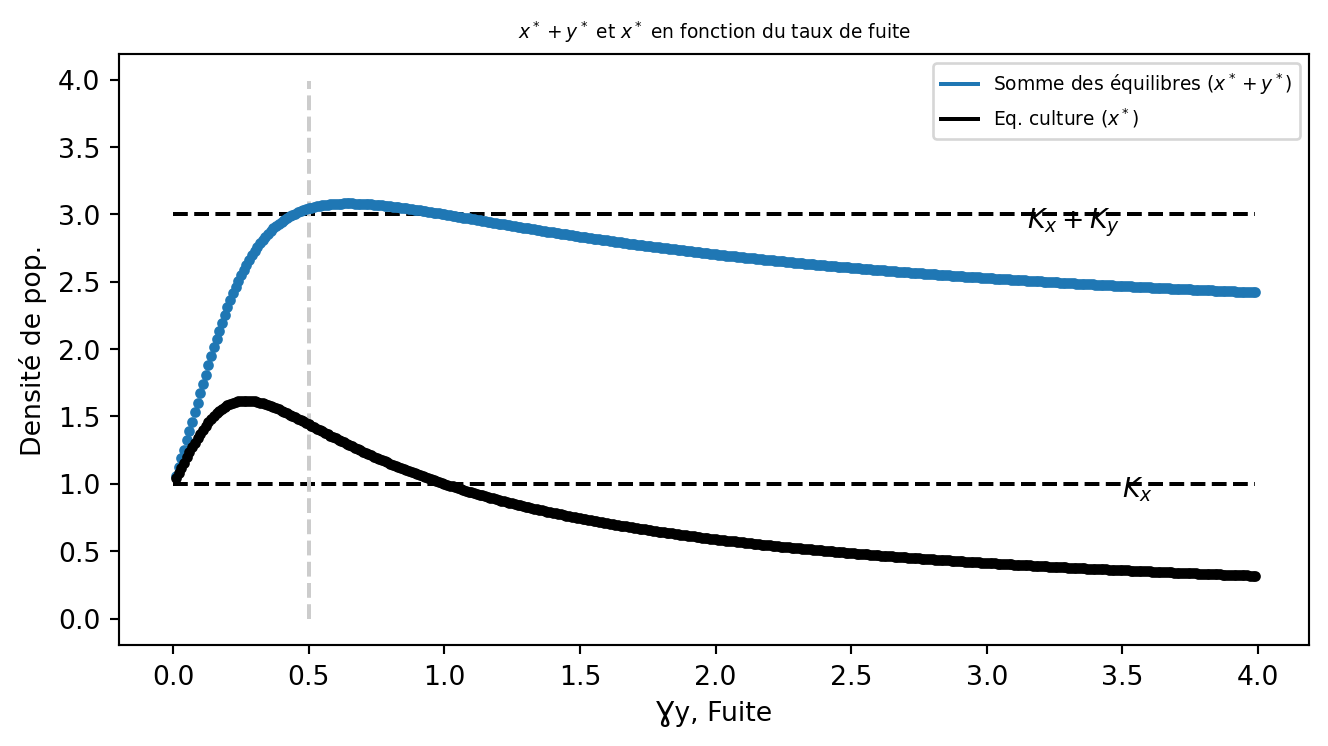
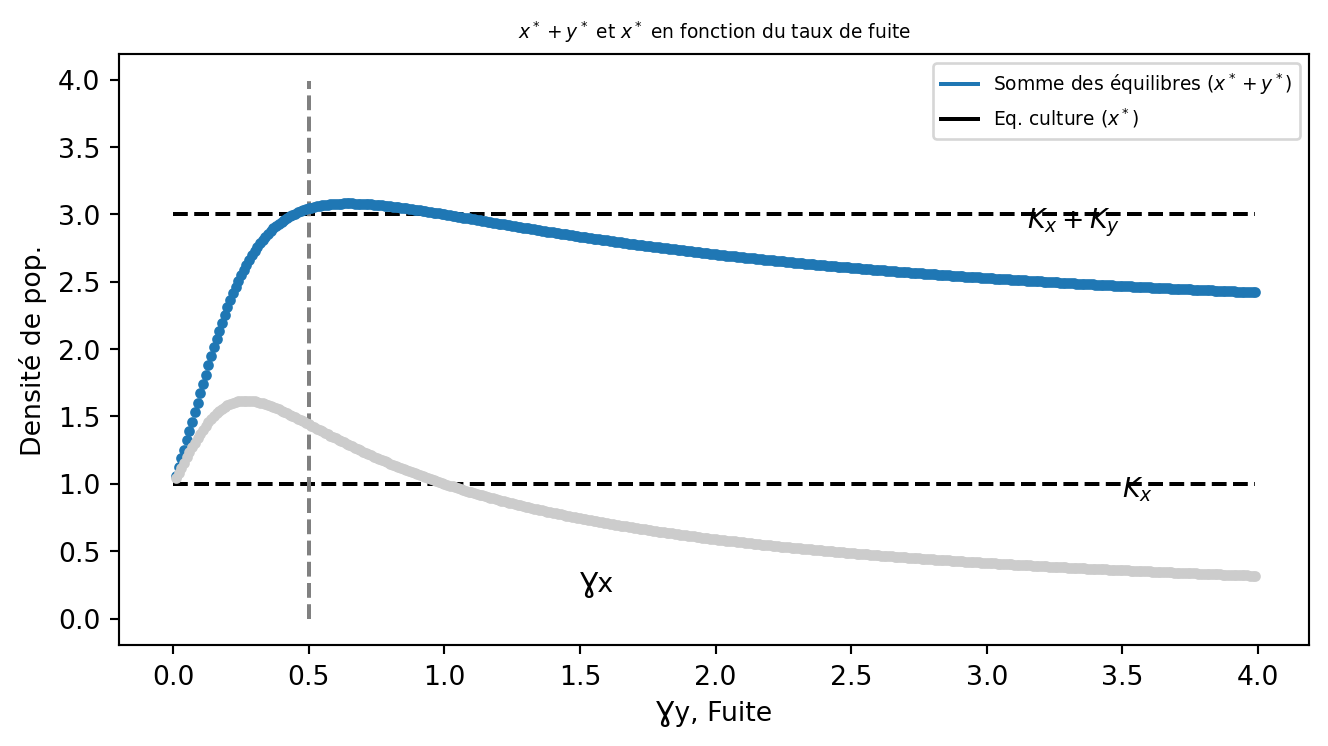
modif part2

Changed region(s): [[0.247, 0.5858, 0.9571, 0.8016], [0.1235, 0.5241, 0.247, 0.6475], [0.4322, 0.7708, 0.4631, 0.8016]]

diff --git a/doc/modeleavecmigrationass.html b/doc/modeleavecmigrationass.html
@@ -1074,23 +1074,24 @@ Note
 <span id="cb14-37"><a href="#cb14-37" aria-hidden="true" tabindex="-1"></a>ax.text(<span class="fl">3.5</span>, Kx1 <span class="op">-</span> <span class="fl">0.1</span>, <span class="st">'$K_x$'</span>)</span>
 <span id="cb14-38"><a href="#cb14-38" aria-hidden="true" tabindex="-1"></a></span>
 <span id="cb14-39"><a href="#cb14-39" aria-hidden="true" tabindex="-1"></a><span class="co"># Nous plaçons une droite gx en pointillé:</span></span>
-<span id="cb14-40"><a href="#cb14-40" aria-hidden="true" tabindex="-1"></a>ax.plot(gx1 <span class="op">*</span> np.ones_like(xt), xt, linestyle <span class="op">=</span> <span class="st">'dashed'</span>, color <span class="op">=</span> <span class="st">'0.8'</span>)</span>
-<span id="cb14-41"><a href="#cb14-41" aria-hidden="true" tabindex="-1"></a></span>
-<span id="cb14-42"><a href="#cb14-42" aria-hidden="true" tabindex="-1"></a><span class="co">#Boucle qui calcule l'équilibre et qui plot un point en fonction des valeurs du taux de fuite:</span></span>
-<span id="cb14-43"><a href="#cb14-43" aria-hidden="true" tabindex="-1"></a><span class="cf">for</span> i <span class="kw">in</span> np.arange(<span class="fl">0.01</span>, <span class="dv">4</span>, <span class="fl">0.01</span>):</span>
-<span id="cb14-44"><a href="#cb14-44" aria-hidden="true" tabindex="-1"></a>    s <span class="op">=</span> odeint(aug3, e0, t, args <span class="op">=</span> (param1, i))</span>
-<span id="cb14-45"><a href="#cb14-45" aria-hidden="true" tabindex="-1"></a>    ax.plot(i, s[<span class="op">-</span><span class="dv">1</span>][<span class="dv">0</span>] <span class="op">+</span> s[<span class="op">-</span><span class="dv">1</span>][<span class="dv">1</span>], marker <span class="op">=</span> <span class="st">'.'</span>, color <span class="op">=</span> <span class="st">'C0'</span>)</span>
-<span id="cb14-46"><a href="#cb14-46" aria-hidden="true" tabindex="-1"></a>    ax.plot(i, s[<span class="op">-</span><span class="dv">1</span>][<span class="dv">0</span>], marker <span class="op">=</span> <span class="st">'.'</span>, color <span class="op">=</span> <span class="st">'k'</span>)</span>
-<span id="cb14-47"><a href="#cb14-47" aria-hidden="true" tabindex="-1"></a></span>
-<span id="cb14-48"><a href="#cb14-48" aria-hidden="true" tabindex="-1"></a><span class="co">#Légendes:</span></span>
-<span id="cb14-49"><a href="#cb14-49" aria-hidden="true" tabindex="-1"></a>ax.set_xlabel(<span class="st">'Ɣy, Fuite'</span>)</span>
-<span id="cb14-50"><a href="#cb14-50" aria-hidden="true" tabindex="-1"></a>ax.plot(<span class="dv">0</span>, Kx1 <span class="op">+</span> Ky1, color <span class="op">=</span> <span class="st">'C0'</span>, label <span class="op">=</span> <span class="st">'Somme des équilibres ($x^*+y^*$)'</span>)</span>
-<span id="cb14-51"><a href="#cb14-51" aria-hidden="true" tabindex="-1"></a>ax.plot(<span class="dv">0</span>, Kx1, color <span class="op">=</span> <span class="st">'k'</span>, label <span class="op">=</span> <span class="st">'Eq. culture ($x^*$)'</span>)</span>
-<span id="cb14-52"><a href="#cb14-52" aria-hidden="true" tabindex="-1"></a></span>
-<span id="cb14-53"><a href="#cb14-53" aria-hidden="true" tabindex="-1"></a>ax.set_title(<span class="st">'$x^* + y^*$ et $x^*$ en fonction du taux de fuite'</span>, fontsize <span class="op">=</span> <span class="dv">7</span>)</span>
-<span id="cb14-54"><a href="#cb14-54" aria-hidden="true" tabindex="-1"></a></span>
-<span id="cb14-55"><a href="#cb14-55" aria-hidden="true" tabindex="-1"></a>ax.legend(fontsize <span class="op">=</span> <span class="st">'7'</span>)<span class="op">;</span></span>
-<span id="cb14-56"><a href="#cb14-56" aria-hidden="true" tabindex="-1"></a>ax.set_ylabel(<span class="st">"Densité de pop."</span>)<span class="op">;</span></span></code><button title="Copy to Clipboard" class="code-copy-button"><i class="bi"></i></button></pre></div>
+<span id="cb14-40"><a href="#cb14-40" aria-hidden="true" tabindex="-1"></a>ax.plot(gx1 <span class="op">*</span> np.ones_like(xt), xt, linestyle <span class="op">=</span> <span class="st">'dashed'</span>, color <span class="op">=</span> <span class="st">'0.5'</span>)</span>
+<span id="cb14-41"><a href="#cb14-41" aria-hidden="true" tabindex="-1"></a>ax.text(gx, <span class="fl">0.2</span>, <span class="st">"Ɣx"</span>)</span>
+<span id="cb14-42"><a href="#cb14-42" aria-hidden="true" tabindex="-1"></a></span>
+<span id="cb14-43"><a href="#cb14-43" aria-hidden="true" tabindex="-1"></a><span class="co">#Boucle qui calcule l'équilibre et qui plot un point en fonction des valeurs du taux de fuite:</span></span>
+<span id="cb14-44"><a href="#cb14-44" aria-hidden="true" tabindex="-1"></a><span class="cf">for</span> i <span class="kw">in</span> np.arange(<span class="fl">0.01</span>, <span class="dv">4</span>, <span class="fl">0.01</span>):</span>
+<span id="cb14-45"><a href="#cb14-45" aria-hidden="true" tabindex="-1"></a>    s <span class="op">=</span> odeint(aug3, e0, t, args <span class="op">=</span> (param1, i))</span>
+<span id="cb14-46"><a href="#cb14-46" aria-hidden="true" tabindex="-1"></a>    ax.plot(i, s[<span class="op">-</span><span class="dv">1</span>][<span class="dv">0</span>] <span class="op">+</span> s[<span class="op">-</span><span class="dv">1</span>][<span class="dv">1</span>], marker <span class="op">=</span> <span class="st">'.'</span>, color <span class="op">=</span> <span class="st">'C0'</span>)</span>
+<span id="cb14-47"><a href="#cb14-47" aria-hidden="true" tabindex="-1"></a>    ax.plot(i, s[<span class="op">-</span><span class="dv">1</span>][<span class="dv">0</span>], marker <span class="op">=</span> <span class="st">'.'</span>, color <span class="op">=</span> <span class="st">'0.8'</span>)</span>
+<span id="cb14-48"><a href="#cb14-48" aria-hidden="true" tabindex="-1"></a></span>
+<span id="cb14-49"><a href="#cb14-49" aria-hidden="true" tabindex="-1"></a><span class="co">#Légendes:</span></span>
+<span id="cb14-50"><a href="#cb14-50" aria-hidden="true" tabindex="-1"></a>ax.set_xlabel(<span class="st">'Ɣy, Fuite'</span>)</span>
+<span id="cb14-51"><a href="#cb14-51" aria-hidden="true" tabindex="-1"></a>ax.plot(<span class="dv">0</span>, Kx1 <span class="op">+</span> Ky1, color <span class="op">=</span> <span class="st">'C0'</span>, label <span class="op">=</span> <span class="st">'Somme des équilibres ($x^*+y^*$)'</span>)</span>
+<span id="cb14-52"><a href="#cb14-52" aria-hidden="true" tabindex="-1"></a>ax.plot(<span class="dv">0</span>, Kx1, color <span class="op">=</span> <span class="st">'k'</span>, label <span class="op">=</span> <span class="st">'Eq. culture ($x^*$)'</span>)</span>
+<span id="cb14-53"><a href="#cb14-53" aria-hidden="true" tabindex="-1"></a></span>
+<span id="cb14-54"><a href="#cb14-54" aria-hidden="true" tabindex="-1"></a>ax.set_title(<span class="st">'$x^* + y^*$ et $x^*$ en fonction du taux de fuite'</span>, fontsize <span class="op">=</span> <span class="dv">7</span>)</span>
+<span id="cb14-55"><a href="#cb14-55" aria-hidden="true" tabindex="-1"></a></span>
+<span id="cb14-56"><a href="#cb14-56" aria-hidden="true" tabindex="-1"></a>ax.legend(fontsize <span class="op">=</span> <span class="st">'7'</span>)<span class="op">;</span></span>
+<span id="cb14-57"><a href="#cb14-57" aria-hidden="true" tabindex="-1"></a>ax.set_ylabel(<span class="st">"Densité de pop."</span>)<span class="op">;</span></span></code><button title="Copy to Clipboard" class="code-copy-button"><i class="bi"></i></button></pre></div>
 </details>
 <div class="cell-output cell-output-display">
 <div id="fig-fuite" class="quarto-figure quarto-figure-center anchored">
@@ -1107,7 +1108,8 @@ Nous observons alors un nouveau profil qui correspond à une déflation, puis un
 <p>Pour représenter cette figure nous avons considéré que <span class="math inline">r_x&lt;r_y</span> et <span class="math inline">K_x&lt;K_y</span> sans perte de généralité.</p>
 <p>Pour interpréter ceci il faut comprendre que les des petites valeurs de <span class="math inline">\gamma_y</span> correspondent à de grandes valeurs de taux de fuite.<br>
 Ainsi quand <span class="math inline">\gamma_y \to 0</span> l’augmentorium se vide en ravageurs et nous avons ainsi toute la population dans la culture et l’équilibre dans la culture tend vers sa capacité de charge car nous sommes seulement face à une croissance logistique.</p>
-<p>Nous C’est pourquoi, lorsque les taux de fuite sont grands nous observons une inflation de la culture car nous avons, des populations de ravageurs qui viennent de l’augmentorium qui s’ajoutent aux ravageurs déjà présents dans la culture.<br>
+<p>Nous sommes face à une situation un peu paradoxale. La population globale à l’équilibre subit une déflation pour des taux de fuite élevés alors qu’on observe une inflation de la population dans la culture par rapport à sa capacité de charge.</p>
+<p>En effet, lorsque les taux de fuite sont grands nous observons une inflation de la culture car nous avons des populations de ravageurs qui viennent de l’augmentorium qui s’ajoutent aux ravageurs déjà présents dans la culture.<br>
 La somme des équilibres est donc trompeuse dans ce cas là, en effet le système subit une déflation car l’augmentorium n’est presque plus occupé pour de forts taux de fuite mais il ne faut pas croire que c’en est bénéfique pour la culture.</p>
 <p>Ce modèle considère uniquement la population de ravageurs. Or, la méthode de l’augmentorium repose énormément sur l’action des prédateurs nous allons donc considérer <a href="./modelaug.html">maintenant</a> un modèle qui prend en compte ces prédateurs.</p>
 
@@ -2217,41 +2219,43 @@ window.document.addEventListener("DOMContentLoaded", function (event) {
 <span id="cb15-836"><a href="#cb15-836" aria-hidden="true" tabindex="-1"></a>ax.text(<span class="fl">3.5</span>, Kx1 <span class="op">-</span> <span class="fl">0.1</span>, <span class="st">'$K_x$'</span>)</span>
 <span id="cb15-837"><a href="#cb15-837" aria-hidden="true" tabindex="-1"></a></span>
 <span id="cb15-838"><a href="#cb15-838" aria-hidden="true" tabindex="-1"></a><span class="co"># Nous plaçons une droite gx en pointillé:</span></span>
-<span id="cb15-839"><a href="#cb15-839" aria-hidden="true" tabindex="-1"></a>ax.plot(gx1 <span class="op">*</span> np.ones_like(xt), xt, linestyle <span class="op">=</span> <span class="st">'dashed'</span>, color <span class="op">=</span> <span class="st">'0.8'</span>)</span>
-<span id="cb15-840"><a href="#cb15-840" aria-hidden="true" tabindex="-1"></a></span>
-<span id="cb15-841"><a href="#cb15-841" aria-hidden="true" tabindex="-1"></a><span class="co">#Boucle qui calcule l'équilibre et qui plot un point en fonction des valeurs du taux de fuite:</span></span>
-<span id="cb15-842"><a href="#cb15-842" aria-hidden="true" tabindex="-1"></a><span class="cf">for</span> i <span class="kw">in</span> np.arange(<span class="fl">0.01</span>, <span class="dv">4</span>, <span class="fl">0.01</span>):</span>
-<span id="cb15-843"><a href="#cb15-843" aria-hidden="true" tabindex="-1"></a>    s <span class="op">=</span> odeint(aug3, e0, t, args <span class="op">=</span> (param1, i))</span>
-<span id="cb15-844"><a href="#cb15-844" aria-hidden="true" tabindex="-1"></a>    ax.plot(i, s[<span class="op">-</span><span class="dv">1</span>][<span class="dv">0</span>] <span class="op">+</span> s[<span class="op">-</span><span class="dv">1</span>][<span class="dv">1</span>], marker <span class="op">=</span> <span class="st">'.'</span>, color <span class="op">=</span> <span class="st">'C0'</span>)</span>
-<span id="cb15-845"><a href="#cb15-845" aria-hidden="true" tabindex="-1"></a>    ax.plot(i, s[<span class="op">-</span><span class="dv">1</span>][<span class="dv">0</span>], marker <span class="op">=</span> <span class="st">'.'</span>, color <span class="op">=</span> <span class="st">'k'</span>)</span>
-<span id="cb15-846"><a href="#cb15-846" aria-hidden="true" tabindex="-1"></a></span>
-<span id="cb15-847"><a href="#cb15-847" aria-hidden="true" tabindex="-1"></a><span class="co">#Légendes:</span></span>
-<span id="cb15-848"><a href="#cb15-848" aria-hidden="true" tabindex="-1"></a>ax.set_xlabel(<span class="st">'Ɣy, Fuite'</span>)</span>
-<span id="cb15-849"><a href="#cb15-849" aria-hidden="true" tabindex="-1"></a>ax.plot(<span class="dv">0</span>, Kx1 <span class="op">+</span> Ky1, color <span class="op">=</span> <span class="st">'C0'</span>, label <span class="op">=</span> <span class="st">'Somme des équilibres ($x^*+y^*$)'</span>)</span>
-<span id="cb15-850"><a href="#cb15-850" aria-hidden="true" tabindex="-1"></a>ax.plot(<span class="dv">0</span>, Kx1, color <span class="op">=</span> <span class="st">'k'</span>, label <span class="op">=</span> <span class="st">'Eq. culture ($x^*$)'</span>)</span>
-<span id="cb15-851"><a href="#cb15-851" aria-hidden="true" tabindex="-1"></a></span>
-<span id="cb15-852"><a href="#cb15-852" aria-hidden="true" tabindex="-1"></a>ax.set_title(<span class="st">'$x^* + y^*$ et $x^*$ en fonction du taux de fuite'</span>, fontsize <span class="op">=</span> <span class="dv">7</span>)</span>
-<span id="cb15-853"><a href="#cb15-853" aria-hidden="true" tabindex="-1"></a></span>
-<span id="cb15-854"><a href="#cb15-854" aria-hidden="true" tabindex="-1"></a>ax.legend(fontsize <span class="op">=</span> <span class="st">'7'</span>)<span class="op">;</span></span>
-<span id="cb15-855"><a href="#cb15-855" aria-hidden="true" tabindex="-1"></a>ax.set_ylabel(<span class="st">"Densité de pop."</span>)<span class="op">;</span></span>
-<span id="cb15-856"><a href="#cb15-856" aria-hidden="true" tabindex="-1"></a><span class="in">```</span></span>
-<span id="cb15-857"><a href="#cb15-857" aria-hidden="true" tabindex="-1"></a></span>
-<span id="cb15-858"><a href="#cb15-858" aria-hidden="true" tabindex="-1"></a>Dans la figure gauche nous avons représenté la somme des équilibres ($x^*+y^*$) de la même manière que précédemment mais cette fois en faisant varier le taux de fuite.  </span>
-<span id="cb15-859"><a href="#cb15-859" aria-hidden="true" tabindex="-1"></a>Nous observons alors un nouveau profil qui correspond à une déflation, puis une inflation puis enfin une déflation au fur et à mesure que $\gamma_y$ augmente.</span>
-<span id="cb15-860"><a href="#cb15-860" aria-hidden="true" tabindex="-1"></a></span>
-<span id="cb15-861"><a href="#cb15-861" aria-hidden="true" tabindex="-1"></a>Dans la figure droite nous avons cette fois uniquement l'équilibre dans la culture ($x^*$). Nous observons que pour des $\gamma_y$ petits nous avons inflation puis nous retournons à une déflation.  </span>
-<span id="cb15-862"><a href="#cb15-862" aria-hidden="true" tabindex="-1"></a></span>
-<span id="cb15-863"><a href="#cb15-863" aria-hidden="true" tabindex="-1"></a>Pour représenter cette figure nous avons considéré que $r_x&lt;r_y$ et $K_x&lt;K_y$ sans perte de généralité.</span>
-<span id="cb15-864"><a href="#cb15-864" aria-hidden="true" tabindex="-1"></a></span>
-<span id="cb15-865"><a href="#cb15-865" aria-hidden="true" tabindex="-1"></a>Pour interpréter ceci il faut comprendre que les des petites valeurs de $\gamma_y$ correspondent à de grandes valeurs de taux de fuite.  </span>
-<span id="cb15-866"><a href="#cb15-866" aria-hidden="true" tabindex="-1"></a>Ainsi quand $\gamma_y \to 0$ l'augmentorium se vide en ravageurs et nous avons ainsi toute la population dans la culture et l'équilibre dans la culture tend vers sa capacité de charge car nous sommes seulement face à une croissance logistique.  </span>
-<span id="cb15-867"><a href="#cb15-867" aria-hidden="true" tabindex="-1"></a></span>
-<span id="cb15-868"><a href="#cb15-868" aria-hidden="true" tabindex="-1"></a>Nous </span>
-<span id="cb15-869"><a href="#cb15-869" aria-hidden="true" tabindex="-1"></a>C'est pourquoi, lorsque les taux de fuite sont grands nous observons une inflation de la culture car nous avons, des populations de ravageurs qui viennent de l'augmentorium qui s'ajoutent aux ravageurs déjà présents dans la culture.  </span>
-<span id="cb15-870"><a href="#cb15-870" aria-hidden="true" tabindex="-1"></a>La somme des équilibres est donc trompeuse dans ce cas là, en effet le système subit une déflation car l'augmentorium n'est presque plus occupé pour de forts taux de fuite mais il ne faut pas croire que c'en est bénéfique pour la culture.</span>
-<span id="cb15-871"><a href="#cb15-871" aria-hidden="true" tabindex="-1"></a></span>
-<span id="cb15-872"><a href="#cb15-872" aria-hidden="true" tabindex="-1"></a></span>
-<span id="cb15-873"><a href="#cb15-873" aria-hidden="true" tabindex="-1"></a>Ce modèle considère uniquement la population de ravageurs. Or, la méthode de l'augmentorium repose énormément sur l'action des prédateurs nous allons donc considérer <span class="co">[</span><span class="ot">maintenant</span><span class="co">](modelaug.qmd)</span> un modèle qui prend en compte ces prédateurs.</span>
+<span id="cb15-839"><a href="#cb15-839" aria-hidden="true" tabindex="-1"></a>ax.plot(gx1 <span class="op">*</span> np.ones_like(xt), xt, linestyle <span class="op">=</span> <span class="st">'dashed'</span>, color <span class="op">=</span> <span class="st">'0.5'</span>)</span>
+<span id="cb15-840"><a href="#cb15-840" aria-hidden="true" tabindex="-1"></a>ax.text(gx, <span class="fl">0.2</span>, <span class="st">"Ɣx"</span>)</span>
+<span id="cb15-841"><a href="#cb15-841" aria-hidden="true" tabindex="-1"></a></span>
+<span id="cb15-842"><a href="#cb15-842" aria-hidden="true" tabindex="-1"></a><span class="co">#Boucle qui calcule l'équilibre et qui plot un point en fonction des valeurs du taux de fuite:</span></span>
+<span id="cb15-843"><a href="#cb15-843" aria-hidden="true" tabindex="-1"></a><span class="cf">for</span> i <span class="kw">in</span> np.arange(<span class="fl">0.01</span>, <span class="dv">4</span>, <span class="fl">0.01</span>):</span>
+<span id="cb15-844"><a href="#cb15-844" aria-hidden="true" tabindex="-1"></a>    s <span class="op">=</span> odeint(aug3, e0, t, args <span class="op">=</span> (param1, i))</span>
+<span id="cb15-845"><a href="#cb15-845" aria-hidden="true" tabindex="-1"></a>    ax.plot(i, s[<span class="op">-</span><span class="dv">1</span>][<span class="dv">0</span>] <span class="op">+</span> s[<span class="op">-</span><span class="dv">1</span>][<span class="dv">1</span>], marker <span class="op">=</span> <span class="st">'.'</span>, color <span class="op">=</span> <span class="st">'C0'</span>)</span>
+<span id="cb15-846"><a href="#cb15-846" aria-hidden="true" tabindex="-1"></a>    ax.plot(i, s[<span class="op">-</span><span class="dv">1</span>][<span class="dv">0</span>], marker <span class="op">=</span> <span class="st">'.'</span>, color <span class="op">=</span> <span class="st">'0.8'</span>)</span>
+<span id="cb15-847"><a href="#cb15-847" aria-hidden="true" tabindex="-1"></a></span>
+<span id="cb15-848"><a href="#cb15-848" aria-hidden="true" tabindex="-1"></a><span class="co">#Légendes:</span></span>
+<span id="cb15-849"><a href="#cb15-849" aria-hidden="true" tabindex="-1"></a>ax.set_xlabel(<span class="st">'Ɣy, Fuite'</span>)</span>
+<span id="cb15-850"><a href="#cb15-850" aria-hidden="true" tabindex="-1"></a>ax.plot(<span class="dv">0</span>, Kx1 <span class="op">+</span> Ky1, color <span class="op">=</span> <span class="st">'C0'</span>, label <span class="op">=</span> <span class="st">'Somme des équilibres ($x^*+y^*$)'</span>)</span>
+<span id="cb15-851"><a href="#cb15-851" aria-hidden="true" tabindex="-1"></a>ax.plot(<span class="dv">0</span>, Kx1, color <span class="op">=</span> <span class="st">'k'</span>, label <span class="op">=</span> <span class="st">'Eq. culture ($x^*$)'</span>)</span>
+<span id="cb15-852"><a href="#cb15-852" aria-hidden="true" tabindex="-1"></a></span>
+<span id="cb15-853"><a href="#cb15-853" aria-hidden="true" tabindex="-1"></a>ax.set_title(<span class="st">'$x^* + y^*$ et $x^*$ en fonction du taux de fuite'</span>, fontsize <span class="op">=</span> <span class="dv">7</span>)</span>
+<span id="cb15-854"><a href="#cb15-854" aria-hidden="true" tabindex="-1"></a></span>
+<span id="cb15-855"><a href="#cb15-855" aria-hidden="true" tabindex="-1"></a>ax.legend(fontsize <span class="op">=</span> <span class="st">'7'</span>)<span class="op">;</span></span>
+<span id="cb15-856"><a href="#cb15-856" aria-hidden="true" tabindex="-1"></a>ax.set_ylabel(<span class="st">"Densité de pop."</span>)<span class="op">;</span></span>
+<span id="cb15-857"><a href="#cb15-857" aria-hidden="true" tabindex="-1"></a><span class="in">```</span></span>
+<span id="cb15-858"><a href="#cb15-858" aria-hidden="true" tabindex="-1"></a></span>
+<span id="cb15-859"><a href="#cb15-859" aria-hidden="true" tabindex="-1"></a>Dans la figure gauche nous avons représenté la somme des équilibres ($x^*+y^*$) de la même manière que précédemment mais cette fois en faisant varier le taux de fuite.  </span>
+<span id="cb15-860"><a href="#cb15-860" aria-hidden="true" tabindex="-1"></a>Nous observons alors un nouveau profil qui correspond à une déflation, puis une inflation puis enfin une déflation au fur et à mesure que $\gamma_y$ augmente.</span>
+<span id="cb15-861"><a href="#cb15-861" aria-hidden="true" tabindex="-1"></a></span>
+<span id="cb15-862"><a href="#cb15-862" aria-hidden="true" tabindex="-1"></a>Dans la figure droite nous avons cette fois uniquement l'équilibre dans la culture ($x^*$). Nous observons que pour des $\gamma_y$ petits nous avons inflation puis nous retournons à une déflation.  </span>
+<span id="cb15-863"><a href="#cb15-863" aria-hidden="true" tabindex="-1"></a></span>
+<span id="cb15-864"><a href="#cb15-864" aria-hidden="true" tabindex="-1"></a>Pour représenter cette figure nous avons considéré que $r_x&lt;r_y$ et $K_x&lt;K_y$ sans perte de généralité.</span>
+<span id="cb15-865"><a href="#cb15-865" aria-hidden="true" tabindex="-1"></a></span>
+<span id="cb15-866"><a href="#cb15-866" aria-hidden="true" tabindex="-1"></a>Pour interpréter ceci il faut comprendre que les des petites valeurs de $\gamma_y$ correspondent à de grandes valeurs de taux de fuite.  </span>
+<span id="cb15-867"><a href="#cb15-867" aria-hidden="true" tabindex="-1"></a>Ainsi quand $\gamma_y \to 0$ l'augmentorium se vide en ravageurs et nous avons ainsi toute la population dans la culture et l'équilibre dans la culture tend vers sa capacité de charge car nous sommes seulement face à une croissance logistique.  </span>
+<span id="cb15-868"><a href="#cb15-868" aria-hidden="true" tabindex="-1"></a></span>
+<span id="cb15-869"><a href="#cb15-869" aria-hidden="true" tabindex="-1"></a>Nous sommes face à une situation un peu paradoxale. La population globale à l'équilibre subit une déflation pour des taux de fuite élevés alors qu'on observe une inflation de la population dans la culture par rapport à sa capacité de charge.  </span>
+<span id="cb15-870"><a href="#cb15-870" aria-hidden="true" tabindex="-1"></a></span>
+<span id="cb15-871"><a href="#cb15-871" aria-hidden="true" tabindex="-1"></a>En effet, lorsque les taux de fuite sont grands nous observons une inflation de la culture car nous avons des populations de ravageurs qui viennent de l'augmentorium qui s'ajoutent aux ravageurs déjà présents dans la culture.  </span>
+<span id="cb15-872"><a href="#cb15-872" aria-hidden="true" tabindex="-1"></a>La somme des équilibres est donc trompeuse dans ce cas là, en effet le système subit une déflation car l'augmentorium n'est presque plus occupé pour de forts taux de fuite mais il ne faut pas croire que c'en est bénéfique pour la culture.</span>
+<span id="cb15-873"><a href="#cb15-873" aria-hidden="true" tabindex="-1"></a></span>
+<span id="cb15-874"><a href="#cb15-874" aria-hidden="true" tabindex="-1"></a></span>
+<span id="cb15-875"><a href="#cb15-875" aria-hidden="true" tabindex="-1"></a>Ce modèle considère uniquement la population de ravageurs. Or, la méthode de l'augmentorium repose énormément sur l'action des prédateurs nous allons donc considérer <span class="co">[</span><span class="ot">maintenant</span><span class="co">](modelaug.qmd)</span> un modèle qui prend en compte ces prédateurs.</span>
 </code><button title="Copy to Clipboard" class="code-copy-button"><i class="bi"></i></button></pre></div>
 </div></div></div></div></div>
 </div> <!-- /content -->
